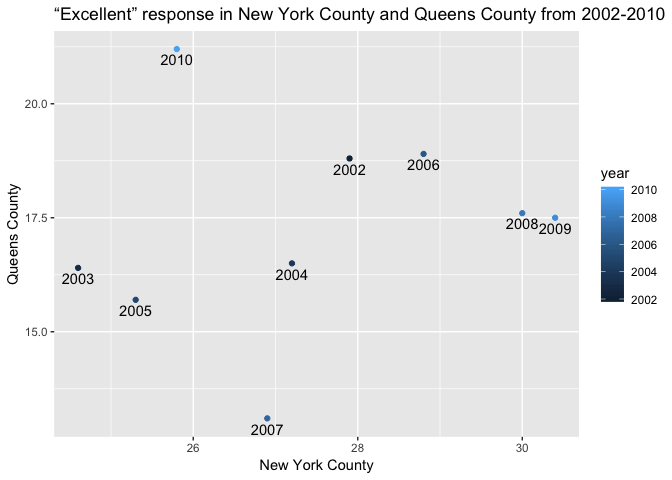
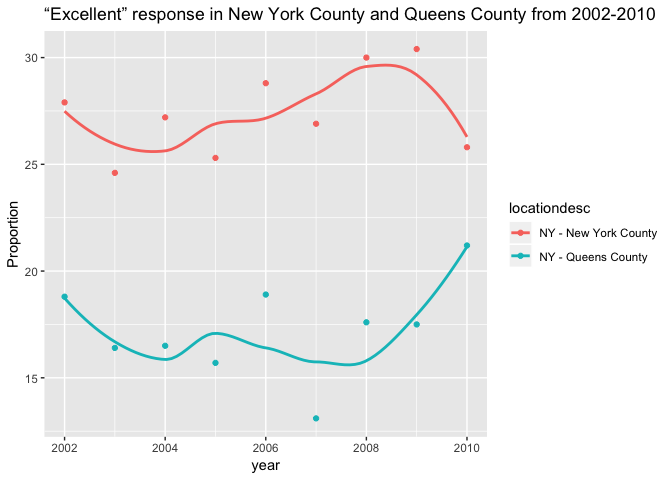
changed the code of last question.

diff --git a/p8105_hw2_jz3036.md b/p8105_hw2_jz3036.md
@@ -9,14 +9,14 @@ Junyuan Zheng (jz3036)
 library(tidyverse)
 ```
 
-    ## ── Attaching packages ─────────────────────────────────────────────────────────── tidyverse 1.2.1 ──
+    ## ── Attaching packages ────────────────────────────────────────────────────────── tidyverse 1.2.1 ──
 
     ## ✔ ggplot2 3.0.0     ✔ purrr   0.2.5
     ## ✔ tibble  1.4.2     ✔ dplyr   0.7.6
     ## ✔ tidyr   0.8.1     ✔ stringr 1.3.1
     ## ✔ readr   1.1.1     ✔ forcats 0.3.0
 
-    ## ── Conflicts ────────────────────────────────────────────────────────────── tidyverse_conflicts() ──
+    ## ── Conflicts ───────────────────────────────────────────────────────────── tidyverse_conflicts() ──
     ## ✖ dplyr::filter() masks stats::filter()
     ## ✖ dplyr::lag()    masks stats::lag()
 
@@ -342,20 +342,21 @@ ggplot(data_p3_2002, aes(x = excellent)) +
 Make a scatterplot showing the proportion of “Excellent” response values in New York County and Queens County (both in NY State) in each year from 2002 to 2010:
 
 ``` r
-scatter_data_NYC = 
-  filter(data_p3, year <= 2010, locationdesc == 'NY - New York County')
-scatter_data_QC = 
-  filter(data_p3, year <= 2010, locationdesc == 'NY - Queens County')
-
 scatter_data = 
-  full_join(scatter_data_NYC, scatter_data_QC, by = "year") %>%
-  janitor::clean_names(.)
+  filter(data_p3, year <= 2010,
+         locationdesc == 'NY - New York County' | locationdesc == 'NY - Queens County')
 
-ggplot(scatter_data, aes(x = excellent_x, y = excellent_y)) + 
-  geom_point(aes(color = year) ) +
+ggplot(scatter_data, aes(x = year, y = excellent)) + 
+  geom_point(aes(color = locationdesc) ) +
   labs(title="“Excellent” response in New York County and Queens County from 2002-2010", 
-       x="New York County", y="Queens County") +
-  geom_text(aes(label=year),hjust=0.5, vjust=1.5)
+       x="year", y="Proportion") +
+  geom_smooth(se = FALSE, aes(color = locationdesc, ))
 ```
 
+    ## `geom_smooth()` using method = 'loess' and formula 'y ~ x'
+
 ![](p8105_hw2_jz3036_files/figure-markdown_github/scatterplot-1.png)
+
+``` r
+ # geom_text(aes(label=year),hjust=0.5, vjust=1.5)
+```
